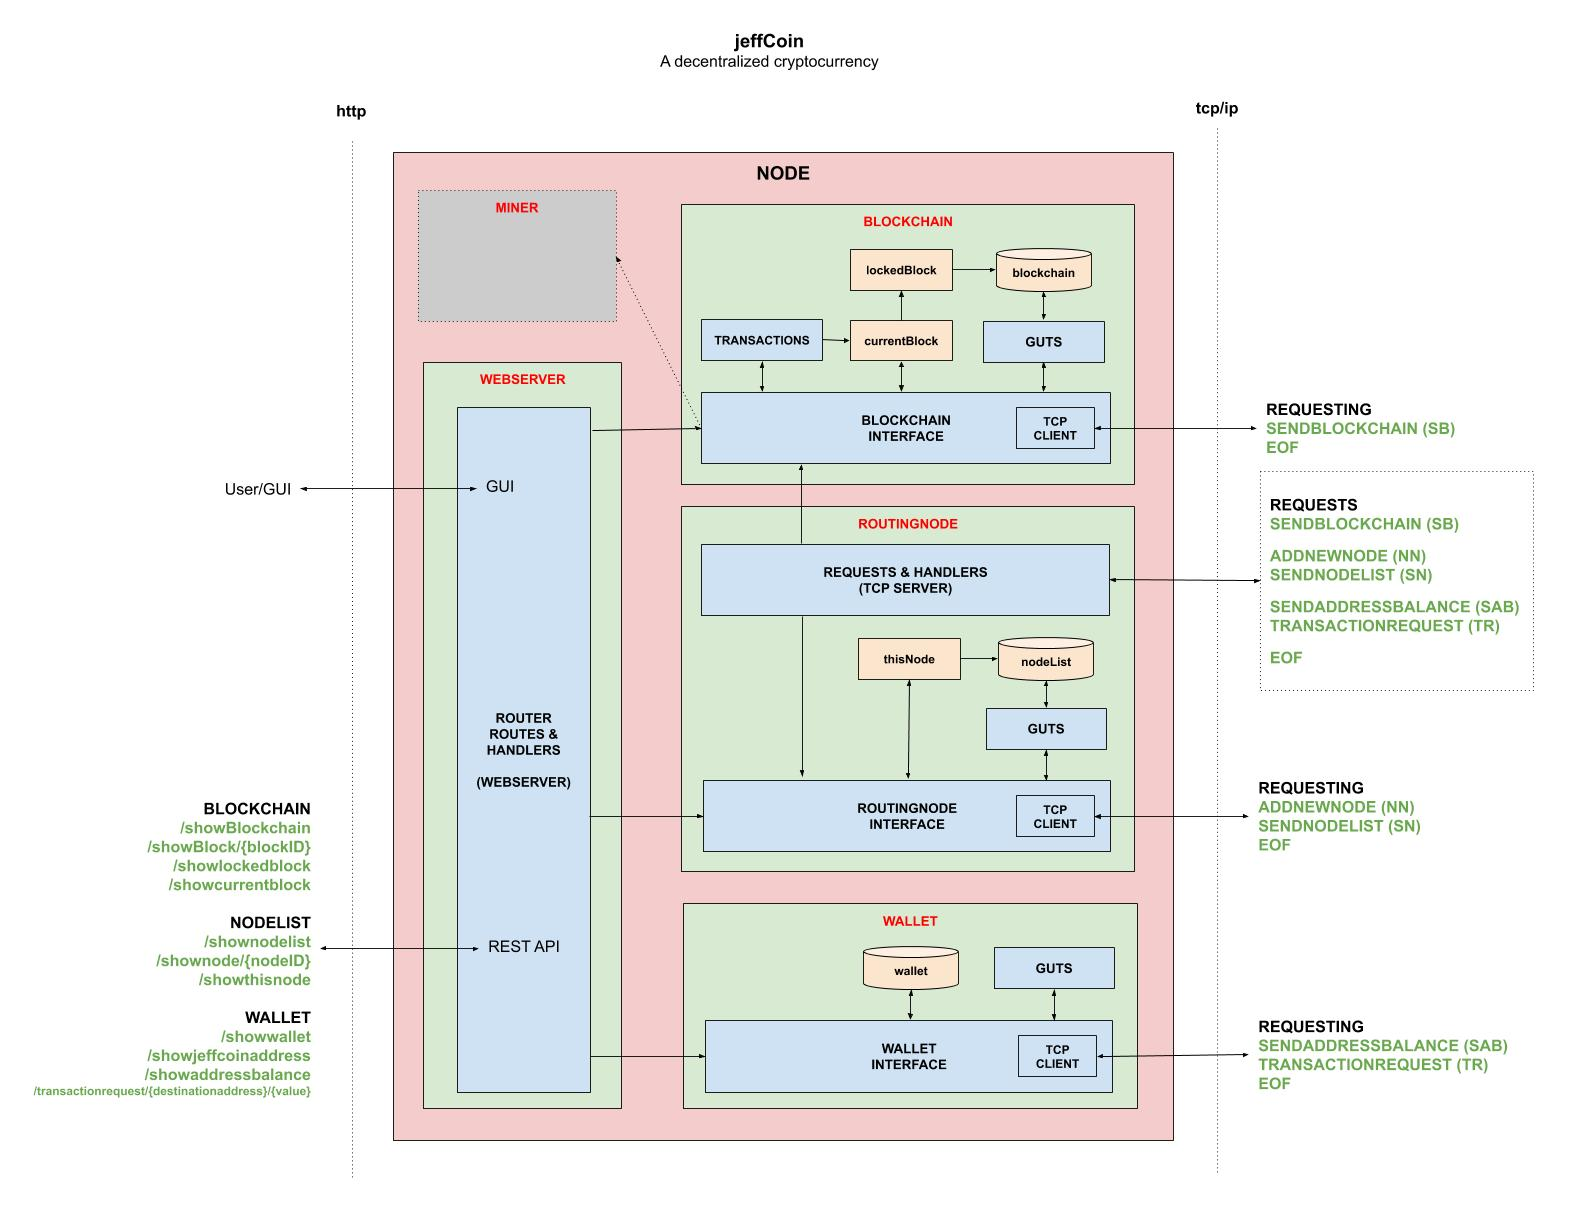
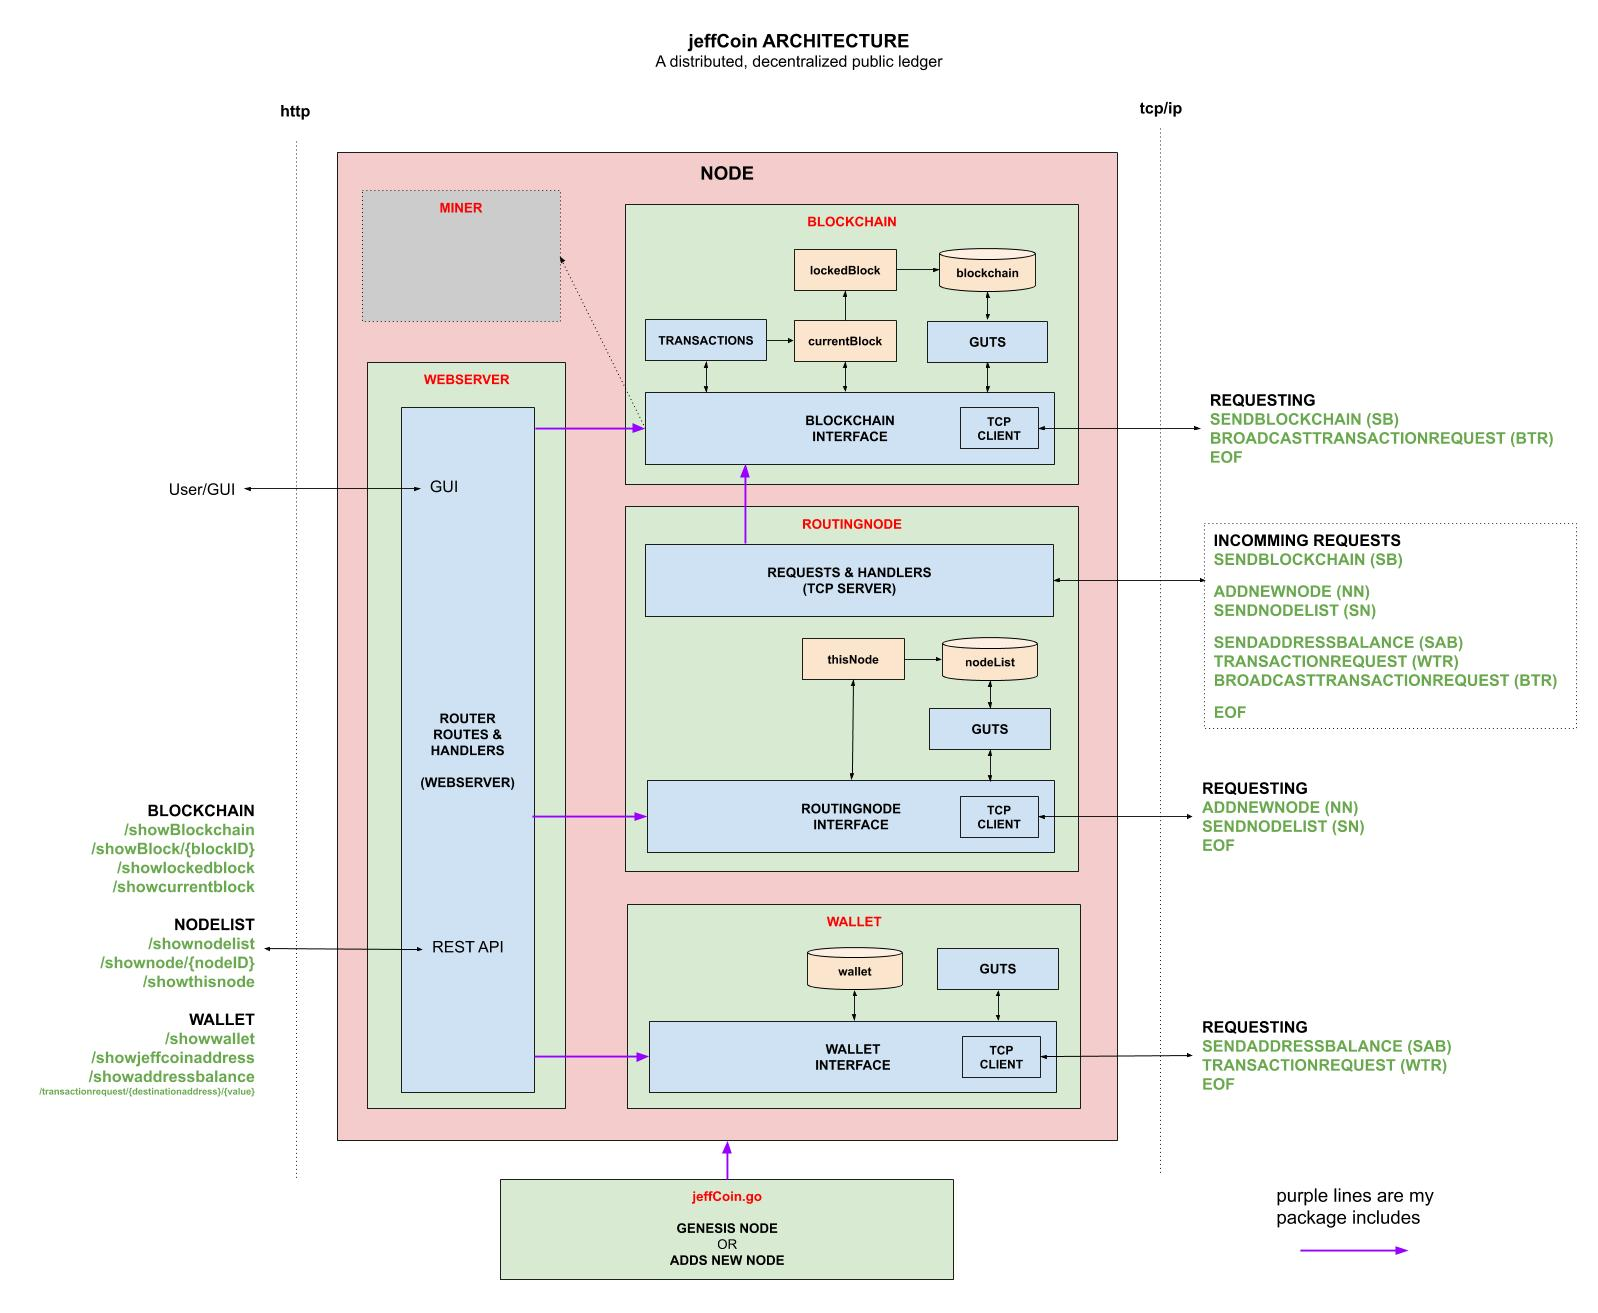
updated

diff --git a/routingnode/handlers.go b/routingnode/handlers.go
@@ -149,10 +149,41 @@ func handleSendAddressBalance(rw *bufio.ReadWriter) {
 	log.Trace("ROUTINGNODE: RCV    " + s)
 }
 
-// handleTransactionRequest - Request to Transfer Coins to a jeffCoin Address
+// handleTransactionRequest - Request from Wallet to Transfer Coins to a jeffCoin Address
 func handleTransactionRequest(rw *bufio.ReadWriter) {
 
 	s := "START: handleTransactionRequest - Request to Transfer Coins to a jeffCoin Address"
+	log.Trace("ROUTINGNODE: RCV    " + s)
+
+	s = "Please enter the transactionRequestMessageSigned"
+	log.Info("ROUTINGNODE: RCV           " + s)
+	returnMessage(s, rw)
+
+	// WAITING FOR TRANSACTION REQUEST
+	transactionRequestMessageSigned, err := rw.ReadString('\n')
+	checkErr(err)
+	transactionRequestMessageSigned = strings.Trim(transactionRequestMessageSigned, "\n ")
+	s = "Received TRANSACTION: " + transactionRequestMessageSigned
+	log.Info("ROUTINGNODE: RCV           " + s)
+
+	// BROADCAST TRANSACTION REQUEST TO ALL NODES
+	// ???????????????????????????????????????????????
+
+	// TRANSACTION REQUEST
+	status := blockchain.TransactionRequest(transactionRequestMessageSigned)
+	s = "The Status is: " + status
+	log.Info("ROUTINGNODE: RCV           " + s)
+	returnMessage(s, rw)
+
+	s = "END:   handleTransactionRequest - Request to Transfer Coins to a jeffCoin Address"
+	log.Trace("ROUTINGNODE: RCV    " + s)
+}
+
+// handleBroadcastTransactionRequest - Request from node to Transfer Coins to a jeffCoin Address
+// Same as above except not broadcasting to all nodes
+func handleBroadcastTransactionRequest(rw *bufio.ReadWriter) {
+
+	s := "START: handleBroadcastTransactionRequest - Request from node to Transfer Coins to a jeffCoin Address"
 	log.Trace("ROUTINGNODE: RCV    " + s)
 
 	s = "Please enter the transactionRequestMessageSigned"
@@ -172,6 +203,6 @@ func handleTransactionRequest(rw *bufio.ReadWriter) {
 	log.Info("ROUTINGNODE: RCV           " + s)
 	returnMessage(s, rw)
 
-	s = "END:   handleTransactionRequest - Request to Transfer Coins to a jeffCoin Address"
+	s = "END:   handleBroadcastTransactionRequest - Request from node to Transfer Coins to a jeffCoin Address"
 	log.Trace("ROUTINGNODE: RCV    " + s)
 }

diff --git a/blockchain/transactions.go b/blockchain/transactions.go
@@ -7,8 +7,8 @@ import (
 	"crypto/sha256"
 	"encoding/hex"
 	"encoding/json"
-	"fmt"
 	"math/big"
+	"strconv"
 
 	log "github.com/sirupsen/logrus"
 )
@@ -27,16 +27,16 @@ func transactionRequest(transactionRequestMessageSigned string) string {
 	err := json.Unmarshal(transactionRequestMessageSignedByte, &theTransactionRequestMessageStruct)
 	checkErr(err)
 
-    // EXTRACT WHAT YOU NEED
-    signature := theTransactionRequestMessageStruct.Signature
-    theRequestMessageStruct := theTransactionRequestMessageStruct.RequestMessage
-    theRequestMessageByte:= json.Marshal(theRequestMessageStruct)
-    plainText := string(theRequestMessageByte)
+	// EXTRACT WHAT YOU NEED
+	signature := theTransactionRequestMessageStruct.Signature
+	theRequestMessageStruct := theTransactionRequestMessageStruct.RequestMessage
+	theRequestMessageByte := json.Marshal(theRequestMessageStruct)
+	plainText := string(theRequestMessageByte)
 
-    // GET THE KEY
-    
-    // VERIFY THIS IS FROM THE SENDER
-    verifyStatus := verifySignature(senderPublicKeyRaw *ecdsa.PublicKey, signature string, plainText string) {
+	// GET THE KEY
+
+	// VERIFY THIS IS FROM THE SENDER
+	verifyStatus := verifySignature(senderPublicKeyRaw, signature, plainText)
 
 	// ADD TRANSACTIONS TO CURRENT BLOCK
 

diff --git a/routingnode/requests.go b/routingnode/requests.go
@@ -24,8 +24,9 @@ func HandleRequest(conn net.Conn) {
 
 	// READ FROM CONN UTIL EOF
 	for {
-
-		s := "Waiting for command: SENDBLOCKCHAIN (SB), ADDNEWNODE (NN), SENDNODELIST (SN), SENDADDRESSBALANCE (SAB), TRANSACTIONREQUEST (TR) or EOF"
+		o
+		s := "Waiting for command: SENDBLOCKCHAIN (SB), ADDNEWNODE (NN), SENDNODELIST (SN), " +
+			"SENDADDRESSBALANCE (SAB), TRANSACTIONREQUEST (TR),  BROADCASTTRANSACTIONREQUEST (BTR) or EOF"
 		returnMessage(s, rw)
 
 		cmd, err := rw.ReadString('\n')
@@ -66,6 +67,8 @@ func HandleRequest(conn net.Conn) {
 			handleSendAddressBalance(rw)
 		case cmd == "TRANSACTIONREQUEST" || cmd == "TR":
 			handleTransactionRequest(rw)
+		case cmd == "BROADCASTTRANSACTIONREQUEST" || cmd == "BTR":
+			handleBroadcastTransactionRequest(rw)
 		case cmd == "EOF":
 			s = "Received EOF"
 			log.Info("ROUTINGNODE: REQ           " + s)

diff --git a/jeffCoin.go b/jeffCoin.go
@@ -19,7 +19,7 @@ import (
 )
 
 const (
-	toolVersion = "1.0.3"
+	toolVersion = "1.1.0"
 )
 
 var genesisPtr *bool

diff --git a/README.md b/README.md
@@ -15,22 +15,22 @@ multi node P2P open network using a sha256 Proof of Work blockchain
 with a REST JSON API and a TCP Server to communicate between
 the nodes over IP._
 
-**Or more simply a distributed, decentralized public ledger.**
+**Or more simply, a distributed decentralized public ledger.**
 
 Table of Contents,
 
 * [OVERVIEW](https://github.com/JeffDeCola/jeffCoin#overview)
 * [1. BLOCKCHAIN](https://github.com/JeffDeCola/jeffCoin#1-blockchain)
-  * [BLOCKCHAIN](https://github.com/JeffDeCola/jeffCoin#blockchain)
-  * [TRANSACTIONS](https://github.com/JeffDeCola/jeffCoin#transactions)
+  * [1.1 BLOCKCHAIN](https://github.com/JeffDeCola/jeffCoin#11-blockchain)
+  * [1.2 TRANSACTIONS](https://github.com/JeffDeCola/jeffCoin#12-transactions)
 * [2. MINER](https://github.com/JeffDeCola/jeffCoin#2-miner)
 * [3. ROUTING NODE](https://github.com/JeffDeCola/jeffCoin#3-routing-node)
-  * [NODELIST](https://github.com/JeffDeCola/jeffCoin#nodelist)
-  * [REQUESTS AND HANDLERS](https://github.com/JeffDeCola/jeffCoin#requests-and-handlers)
+  * [3.1 NODELIST](https://github.com/JeffDeCola/jeffCoin#31-nodelist)
+  * [3.2 REQUESTS AND HANDLERS](https://github.com/JeffDeCola/jeffCoin#32-requests-and-handlers)
 * [4. WALLET](https://github.com/JeffDeCola/jeffCoin#4-wallet)
 * [5. WEBSERVER](https://github.com/JeffDeCola/jeffCoin#5-webserver)
-  * [GUI](https://github.com/JeffDeCola/jeffCoin#gui)
-  * [REST API](https://github.com/JeffDeCola/jeffCoin#rest-api)
+  * [5.1 GUI](https://github.com/JeffDeCola/jeffCoin#51-gui)
+  * [5.2 REST API](https://github.com/JeffDeCola/jeffCoin#52-rest-api)
 * [RUN](https://github.com/JeffDeCola/jeffCoin#run)
   * [GENESIS NODE](https://github.com/JeffDeCola/jeffCoin#genesis-node)
   * [NEW NODES](https://github.com/JeffDeCola/jeffCoin#new-nodes)
@@ -40,7 +40,7 @@ Table of Contents,
 
 This project was built from a foundation of some of my other projects,
 
-* The Blockchain is built from my
+* The blockchain is built from my
   [single-node-blockchain-with-REST](https://github.com/JeffDeCola/my-go-examples/tree/master/blockchain/single-node-blockchain-with-REST)
 * The Webserver (GUI & REST JSON API) is built from my
   [simple-webserver-with-REST](https://github.com/JeffDeCola/my-go-examples/tree/master/api/simple-webserver-with-REST)
@@ -63,18 +63,17 @@ Documentation and reference,
 ## OVERVIEW
 
 `jeffCoin` is my interpretation of a transaction based (ledger) blockchain.
-It's a work in progress, but I feel it can be used as a foundation to
+It's a work in progress but I feel it can be used as a foundation to
 build bigger and better things.
 
 jeffCoin has the following,
 
 * Implements a blockchain using the sha256 hash
-* A decentralized multi node P2P architecture
-* Maintains a network of nodes
+* A decentralized multi node P2P architecture maintaining a network of nodes
 * A Webserver with GUI and a REST API
 * A TCP Server for inter node communication
 * ECDSA Private & Public Key generation
-* Creating the jeffCoin address from Public Key (similar to bitcoin)
+* Creating the jeffCoin address from Public Key (Just like bitcoin)
 * ECDSA Digital Signature Verification
 
 What it does not have,
@@ -85,9 +84,7 @@ What it does not have,
 The code is broken up into four main areas,
 
 * [1. BLOCKCHAIN](https://github.com/JeffDeCola/jeffCoin/tree/master/blockchain)
-  The blockchain code
-  * Blockchain
-  * Transactions
+  The blockchain and transactions
 * [2. MINER](https://github.com/JeffDeCola/jeffCoin/tree/master/miner)
   To mine the cryptocurrency
 * [3. ROUTING NODE (TCP Server)](https://github.com/JeffDeCola/jeffCoin/tree/master/routingnode)
@@ -110,12 +107,12 @@ The blockchain section is the core of the entire design. It will keep the
 transactions secure. A transaction is a transfer of value (coins) between
 jeffCoin addresses.
 Like bitcoin, the value (coins) is all contained in the ledger.
-The wallets just hold the private keys to make the transactions.
+The wallets just hold the private keys to request a transaction.
 
 The code is divided between the blockchain and the transactions
-(data on the blockchain).
+(the data on the blockchain).
 
-### BLOCKCHAIN
+### 1.1 BLOCKCHAIN
 
 A block in the blockchain is the following go struct,
 
@@ -148,9 +145,9 @@ The states of a block are,
 * BLOCK  
   * **GetBlock()** Gets a block (via Index number) from the blockchain
 * LOCKED BLOCK
-  * **GetLockedBlock** Gets the lockedBlock
+  * **GetLockedBlock()** Gets the lockedBlock
 * CURRENT BLOCK
-  * **GetCurrentBlock** Gets the currentBlock
+  * **GetCurrentBlock()** Gets the currentBlock
   * **AddTransactionToCurrentBlock()** Adds a transaction to the currentBlock
 * COINS
   * **GetAddressBalance()** Gets jeffCoin Address balance
@@ -173,14 +170,14 @@ The states of a block are,
 * CURRENT BLOCK
   * **loadCurrentBlock()** Loads the currentBlock
   * **resetCurrentBlock()** Resets the currentBlock
-  * **getCurrentBlock** Gets the currentBlock
+  * **getCurrentBlock()** Gets the currentBlock
   * **addTransactionToCurrentBlock()** Adds a transaction to the currentBlock
   * **lockCurrentBlock()** Moves the currentBlock to the lockedBlock
     and resets the currentBlock
 * COINS
   * **getAddressBalance()** Gets jeffCoin Address balance
 
-### TRANSACTIONS
+### 1.2 TRANSACTIONS
 
 Transaction are at the heart of jeffCoin, allowing the transfer of value (coins)
 from one address to another.  A transaction request comes from the wallet which holds
@@ -211,9 +208,9 @@ The miner. tbd.
 ## 3. ROUTING NODE
 
 The Routing Node has two main parts, the nodeList
-and the ability to handling Node Requests (TCP Server).
+and the ability to handle the Node Requests (TCP Server).
 
-### NODELIST
+### 3.1 NODELIST
 
 A node in the nodelist is the following go struct,
 
@@ -256,9 +253,9 @@ type nodeStruct struct {
   * **loadThisNode()** Loads thisNode
   * **getThisNode()** Gets thisNode
   * **appendThisNode()** Appends thisNode to the nodeList
-  * **checkIfThisNodeinNodeList** - Check if thisNode is already in the nodeList
+  * **checkIfThisNodeinNodeList()** - Check if thisNode is already in the nodeList
 
-### REQUESTS AND HANDLERS
+### 3.2 REQUESTS AND HANDLERS
 
 Incoming requests to the TCP server from other nodes or TCP connection.
 
@@ -271,7 +268,10 @@ Incoming requests to the TCP server from other nodes or TCP connection.
   * **SENDNODELIST (GN)** Sends the nodeList to another node
 * WALLET
   * **SENDADDRESSBALANCE (SAB)** Sends the coin balance for a jeffCoin Address
-  * **TRANSACTIONREQUEST (TR)** Request to Transfer Coins to a jeffCoin Address
+  * **TRANSACTIONREQUEST (TR)**
+    Request from Wallet to Transfer Coins to a jeffCoin Address
+  * **BROADCASTTRANSACTIONREQUEST (BTR)**
+    Request from Node to Transfer Coins to a jeffCoin Address
 * EOF
   * **EOF**
 
@@ -279,7 +279,7 @@ Incoming requests to the TCP server from other nodes or TCP connection.
 
 Wallets keep the Public Key, the Private Key and the jeffCoin address.
 Wallets do not have value.  The value is in the blockchains
-transactions.
+transactions (ledger).
 
 A wallet has the following go struct,
 
@@ -328,13 +328,13 @@ type walletStruct struct {
 
 The Webserver has two main parts, the GUI and the REST API.
 
-### GUI
+### 5.1 GUI
 
-Currently, there is the main page that also lists the API available.
+Currently, there is the main page that also lists the available APIs.
 
 * [192.168.20.100:1234](http://localhost:1234/)
 
-### REST API
+### 5.2 REST API
 
 **[API COMMANDS](https://github.com/JeffDeCola/jeffCoin/blob/master/webserver/handlers.go)**
 
@@ -400,12 +400,6 @@ go run jeffCoin.go \
        -netport 3336
 ```
 
-This will,
-
-* Add your Node to the node list
-  * That list will be updated with the network nodes
-* Receive the blockchain
-
 ### WEBSERVER AND API
 
 The user GUI,
@@ -418,7 +412,7 @@ You could also use curl from the command line,
 curl 192.168.20.100:1234
 ```
 
-The main page will list the various API command.
+The main page will list the various API commands.
 
 For example, show a Particular Block,
 
@@ -426,7 +420,7 @@ For example, show a Particular Block,
 
 ### ROUTING NODE
 
-Since their is no security setup yet, you can open a connection to the TCP server,
+You can also bypass the API and just open a connection to the TCP server itself,
 
 ```txt
 netcat -q -1 192.168.20.100 3334
@@ -435,7 +429,7 @@ netcat -q -1 192.168.20.100 3334
 And request commands such as,
 
 ```txt
-ADDTRANSACTION
+SENDADDRESSBALANCE
 ```
 
 ## UPDATE GITHUB WEBPAGE USING CONCOURSE (OPTIONAL)
